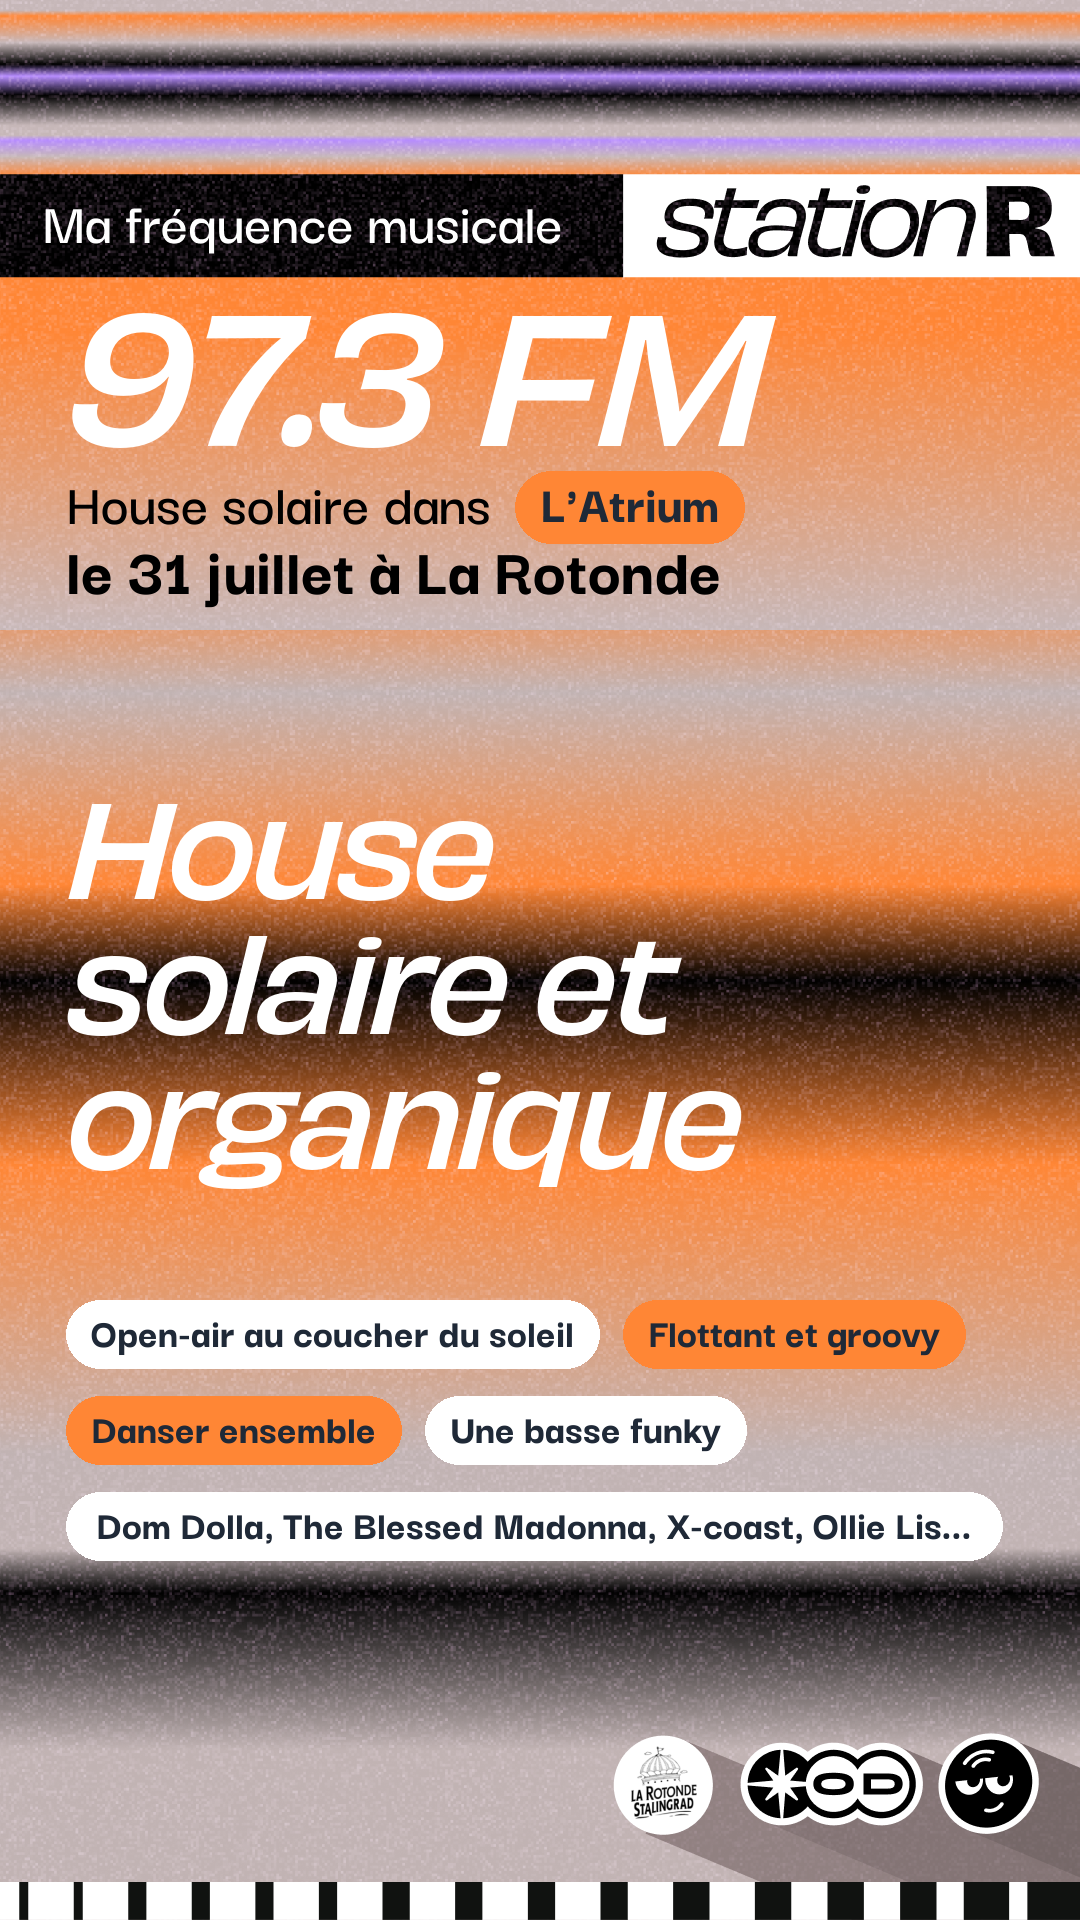
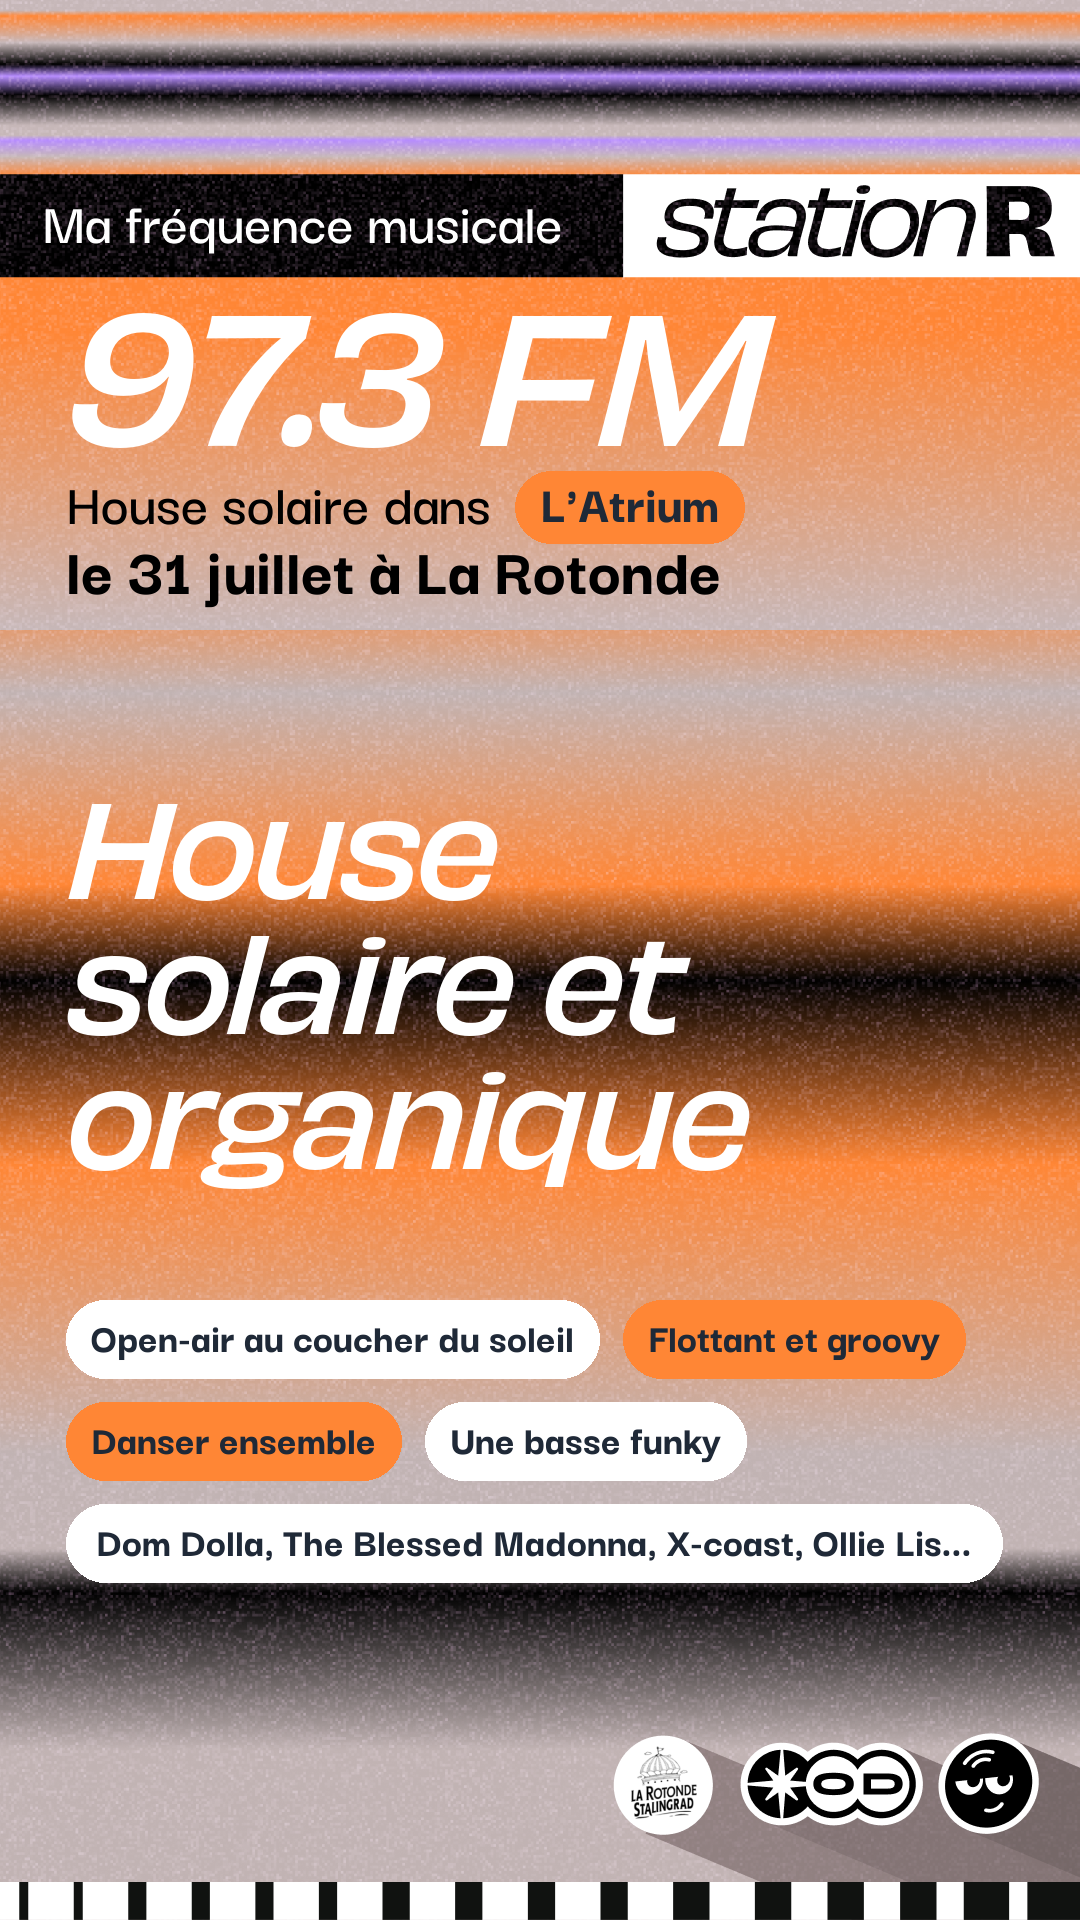
Fixed the pills height depending on context

diff --git a/freq_image_gen.py b/freq_image_gen.py
@@ -29,7 +29,7 @@ def generate_freq_image(frequency: str, scene_genre: str, scene_name: str,
             draw.text((x, y), char, fill=fill, font=font)
             x += font.getlength(char) + tracking
 
-    def draw_wrapped_text(draw, text, font, fill, pos, max_width, line_spacing=8, tracking=None):
+    def draw_wrapped_text(draw, text, font, fill, pos, max_width, line_spacing=8, tracking=None, max_lines=None):
         """Draw text with word wrapping."""
         words = text.split()
         lines = []
@@ -51,9 +51,33 @@ def generate_freq_image(frequency: str, scene_genre: str, scene_name: str,
         if current_line:
             lines.append(' '.join(current_line))
         
+        # Truncate to max_lines if specified
+        if max_lines and len(lines) > max_lines:
+            lines = lines[:max_lines]
+            # Add ellipsis to the last line if truncated
+            last_line = lines[-1]
+            while True:
+                test_line = last_line + '...'
+                test_width = font.getbbox(test_line)[2] - font.getbbox(test_line)[0]
+                if test_width <= max_width or len(last_line) <= 3:
+                    lines[-1] = (last_line, '...')  # Store as tuple to indicate ellipsis
+                    break
+                last_line = last_line[:-1]
+        
         for i, line in enumerate(lines):
             line_pos = (pos[0], pos[1] + i * (font.size + line_spacing))
-            if tracking is not None:
+            if isinstance(line, tuple):
+                # Handle line with ellipsis (no tracking for ellipsis)
+                text_part, ellipsis = line
+                if tracking is not None:
+                    draw_text_with_tracking(draw, line_pos, text_part, font, fill, tracking)
+                    # Calculate position for ellipsis after the tracked text
+                    text_width = sum(font.getlength(char) + tracking for char in text_part[:-1]) + font.getlength(text_part[-1]) if text_part else 0
+                    ellipsis_pos = (line_pos[0] + text_width, line_pos[1])
+                    draw.text(ellipsis_pos, ellipsis, fill=fill, font=font)
+                else:
+                    draw.text(line_pos, text_part + ellipsis, fill=fill, font=font)
+            elif tracking is not None:
                 draw_text_with_tracking(draw, line_pos, line, font, fill, tracking)
             else:
                 draw.text(line_pos, line, fill=fill, font=font)
@@ -172,9 +196,9 @@ def generate_freq_image(frequency: str, scene_genre: str, scene_name: str,
     # 4. Date
     draw.text((66, 520), "le 31 juillet à La Rotonde", fill=BLACK, font=date_font)
     
-    # 5. Radio station name (with wrapping)
+    # 5. Radio station name (with wrapping, max 3 lines)
     draw_wrapped_text(draw, radio_station_name, radio_station_font, WHITE,
-                     (66, 800), max_width=width-200, line_spacing=8, tracking=-8)
+                     (66, 800), max_width=width-200, line_spacing=8, tracking=-7, max_lines=3)
     # 6. Tags as pills (3 lines: 2+2+1, with pills 2&3 colored)
     if tags and len(tags) == 5:
         pill_start_x = 66
@@ -182,7 +206,7 @@ def generate_freq_image(frequency: str, scene_genre: str, scene_name: str,
         pill_gap_y = 24
         pill_gap_x = 24
         max_pill_right = width - 66
-        pill_height = 68
+        pill_height = 78
         
         # Tag layout: [0,1], [2,3], [4] with pills 1&2 colored (indices 1&2)
         lines = [[0,1], [2,3], [4]]
